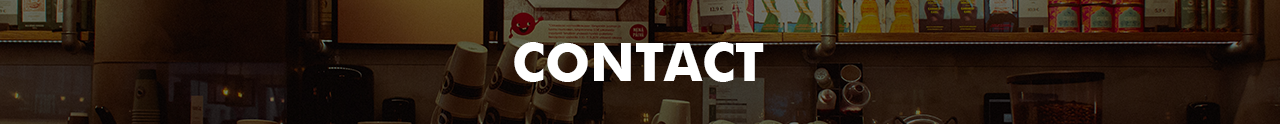
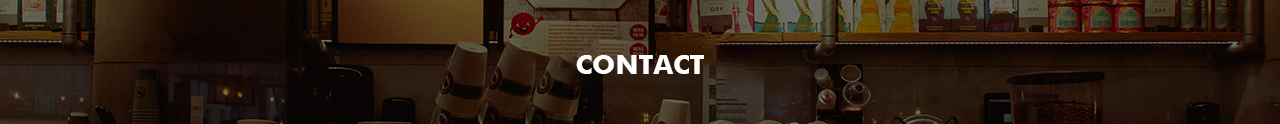
pembuatan fitur about

Changed region(s): [[0.375, 0.3145, 0.625, 0.7016]]

diff --git a/resources/views/about.blade.php b/resources/views/about.blade.php
@@ -1,109 +1,59 @@
 @extends('layouts.main')
 
 @section('content')
+    {{-- carousel about --}}
+    <div id="carouselExample" class="carousel slide">
+        <div class="carousel-inner" style="height: 120px;">
+            <div class="carousel-item active">
+                <img src="{{ Vite::asset('resources/images/bgabout.png') }}" class="d-block w-100" alt="...">
+            </div>
 
-        <div class="carousel-inner" style="height: 120px;>
-        <div class="carousel-item active">
-            <img src="{{ Vite::asset('resources/images/bgcontact.png') }}" class="d-block w-100" alt="...">
+            <div class="carousel-item">
+                <img src="{{ Vite::asset('resources/images/bgabout2.png') }}" class="d-block w-100" alt="...">
+            </div>
         </div>
+        <button class="carousel-control-prev" type="button" data-bs-target="#carouselExample" data-bs-slide="prev">
+            <span class="carousel-control-prev-icon" aria-hidden="true"></span>
+            <span class="visually-hidden">Previous</span>
+        </button>
+        <button class="carousel-control-next" type="button" data-bs-target="#carouselExample" data-bs-slide="next">
+            <span class="carousel-control-next-icon" aria-hidden="true"></span>
+            <span class="visually-hidden">Next</span>
+        </button>
     </div>
 
-    {{-- end navbar --}}
+    {{-- carousel about --}}
 
 
     {{-- START CONTENT --}}
     <div class="container-sm mt-5 mb-5 ">
-<form action="{{ route('suggestion.store') }}" method="POST">
-            @csrf
-            <div class="row justify-content-center">
-                <div class="p-5 bg-body-secondary rounded-3 border col-xl-6">
+        @csrf
+        <div class="row justify-content-center">
+            <div class="p-5 bg-body-secondary rounded-3 border col-xl-6">
+                <h1 style="text-align: center; font-weight: bold;">ITTS COFFEE</h1>
+                <hr>
+                <p style="text-align: justify">ITTS Coffee adalah tempat nongkrong yang asik dengan menyajikan minuman berkualitas tinggi dengan cita
+                    rasa yang unik dan menyenangkan. Pada kopi-nya sendiri kami menggunakan biji kopi pilihan yang diperoleh
+                    dari berbagai daerah penghasil kopi terbaik di dunia. Dengan kombinasi antara keahlian kopi yang
+                    mendalam, teknologi modern, dan dedikasi terhadap kepuasan pelanggan, kami berusaha untuk memberikan
+                    pengalaman kopi yang luar biasa kepada setiap pelanggan kami.
+                    <br>
+                    <br>
+                    Produk dan Layanan:
+                    <br>
+                    1. Kopi Segar: ITTS Coffee menawarkan berbagai macam jenis kopi segar yang dipanggang secara teratur
+                    untuk menjaga kualitasnya. Kami menyediakan biji kopi single origin dan campuran dengan berbagai tingkat
+                    kepekatan dan karakteristik rasa yang berbeda.
+                    <br>
+                    2. Minuman Khas: Selain kopi hitam, ITTS Coffee juga menyajikan beragam minuman khas seperti cappuccino, latte, espresso, mocaccino, dan banyak lagi. Kami menggunakan teknik penyajian yang terampil dan bahan-bahan berkualitas tinggi untuk menciptakan minuman kopi yang lezat.
+<br>
+3. Camilan dan Makanan Ringan: Kami juga menawarkan camilan dan makanan ringan yang cocok untuk menemani secangkir kopi. Mulai dari roti panggang, kue-kue, croissant, hingga sandwich, kami menyajikan pilihan yang beragam untuk memenuhi selera pelanggan.
 
-                    @if ($errors->any())
-                        @foreach ($errors->all() as $error)
-                            <div class="alert alert-danger alert-dismissible fade show">
-                                {{ $error }}
-                                <button type="button" class="btn-close" data-bs-dismiss="alert"
-                                    aria-label="Close"></button>
-                            </div>
-                        @endforeach
-                    @endif
-
-                    <div class="row">
-                        <div class="col-md-6">
-                            <!-- Empty column on the left -->
-                            <div class="card mb-4" style="height: 16vh; border: 1px solid #A52A2A;">
-
-                                <ul class="list-group ms-3 small mt-2">
-                                    {{-- <li class="list-group-item"> --}}
-                                    <i class="bi bi-envelope-fill fs-4"></i>
-                                    <li class="list-group"> <strong>Mail Address</strong></li>
-                                    <li class="list-group"> <strong>ITTSCoffee@gmail.com</strong></li>
-                                </ul>
-                            </div>
-                            <div class="card mb-4" style="height: 16vh; border: 1px solid #A52A2A;">
-                                <ul class="list-group ms-3 small mt-2">
-                                    {{-- <li class="list-group-item"> --}}
-                                    <i class="bi bi-telephone-fill fs-4"></i>
-                                    <li class="list-group "><strong>Phone Number</strong></li>
-                                    <li class="list-group"><strong>+62 812-3456-7890</strong></li>
-                                </ul>
-                            </div>
-                            <div class="card mb-4" style="height: 16vh; border: 1px solid #A52A2A;">
-                                <ul class="list-group ms-3 small mt-2">
-                                    {{-- <li class="list-group-item"> --}}
-                                    <i class="bi bi-geo-alt-fill fs-4"></i>
-                                    <li class="list-group"> <strong>Contact Address</strong></li>
-                                    <li class="list-group"> <strong>Jl. Ketintang No.156</strong> </li>
-                                </ul>
-                            </div>
-
-                        </div>
-                        <div class="col-md-6">
-                            <div class="mb-3">
-                                <h4>Kritik & Saran</h4>
-                            </div>
-                            <div class="mb-3" style="border: 1px solid #A52A2A; border-radius: 7px;">
-                                <input class="form-control" type="text" name="name" id="name"
-                                    value="" placeholder="Enter Name" style="height: 6vh;">
-                            </div>
-                            <div class="mb-3" style="border: 1px solid #A52A2A; border-radius: 7px;">
-                                <input class="form-control" type="text" name="email" id="email" value=""
-                                    placeholder="Enter Email" style="height: 6vh;">
-                            </div>
-                            <div class="mb-2" style="border: 1px solid #A52A2A; border-radius: 7px;">
-                                <textarea class="form-control resize-none" name="message" id="message" rows="6"
-                                    placeholder="Enter Your Suggestion"></textarea>
-                            </div>
-                            <div class="mb-3">
-                                <button type="submit"
-                                    class="btn btn-danger btn-lg d-flex align-items-center justify-content-center"
-                                    style="width: 60px; height: 30px;">
-                                    <span style="font-size: 14px;">Send</span>
-                                </button>
-                            </div>
-
-                        </div>
-                    </div>
-
-                    <div class="container">
-                        <div class="d-flex justify-content-center">
-                            <div class="embed-responsive embed-responsive-16by9">
-                                <iframe
-                                    src="https://www.google.com/maps/embed?pb=!1m18!1m12!1m3!1d3957.3903265077283!2d112.72662707335446!3d-7.309971792697908!2m3!1f0!2f0!3f0!3m2!1i1024!2i768!4f13.1!3m3!1m2!1s0x2dd7fbf613ba5dd5%3A0xe15ebdec39ca0293!2sITTS%20Coffee!5e0!3m2!1sen!2sid!4v1689754225696!5m2!1sen!2sid"
-                                    width="470" height="200" style="border:1;" allowfullscreen=""
-                                    loading="lazy" referrerpolicy="no-referrer-when-downgrade"></iframe>
-                            </div>
-                        </div>
-                    </div>
-
-
-
-
-                </div>
+                </p>
             </div>
-        </form>
+        </div>
+
     </div>
 
     {{-- END CONTENT --}}
-
 @endsection

diff --git a/resources/views/suggestion/create.blade.php b/resources/views/suggestion/create.blade.php
@@ -2,14 +2,26 @@
 
 @section('content')
 
-        <div class="carousel-inner" style="height: 120px;>
-        <div class="carousel-item active">
-            <img src="{{ Vite::asset('resources/images/bgcontact.png') }}" class="d-block w-100" alt="...">
-        </div>
-    </div>
 
     {{-- end navbar --}}
-
+<div id="carouselExample" class="carousel slide">
+  <div class="carousel-inner">
+    <div class="carousel-item active">
+      <img src="{{ Vite::asset('resources/images/bgcontact.png') }}" class="d-block w-100" alt="...">
+    </div>
+    <div class="carousel-item">
+      <img src="{{ Vite::asset('resources/images/bgcontact2.png') }}" class="d-block w-100" alt="...">
+    </div>
+  </div>
+  <button class="carousel-control-prev" type="button" data-bs-target="#carouselExample" data-bs-slide="prev">
+    <span class="carousel-control-prev-icon" aria-hidden="true"></span>
+    <span class="visually-hidden">Previous</span>
+  </button>
+  <button class="carousel-control-next" type="button" data-bs-target="#carouselExample" data-bs-slide="next">
+    <span class="carousel-control-next-icon" aria-hidden="true"></span>
+    <span class="visually-hidden">Next</span>
+  </button>
+</div>
 
     {{-- START CONTENT --}}
     <div class="container-sm mt-5 mb-5 ">

diff --git a/routes/web.php b/routes/web.php
@@ -1,5 +1,6 @@
 <?php
 
+use App\Http\Controllers\AboutController;
 use App\Http\Controllers\Auth\LoginController;
 use Illuminate\Support\Facades\Route;
 use App\Http\Controllers\ProductController;
@@ -26,14 +27,13 @@ Route::get('/', [LoginController::class, 'showLoginForm'])->middleware('guest');
 
 Auth::routes();
 
-    Route::get('about', function () {
-        return view('about');
-    })->name('about');
 
 // Grouping routes with 'auth' middleware
 Route::middleware(['auth'])->group(function () {
     // start route dari home
     Route::get('home', [HomeController::class, 'index'])->name('home');
+
+    Route::get('about', [AboutController::class, 'index'])->name('about');
 
     Route::get('contact', [ContactController::class, 'index'])->name('contact');
     // end route dari home

diff --git a/app/Http/Controllers/AboutController.php b/app/Http/Controllers/AboutController.php
@@ -1,0 +1,15 @@
+<?php
+
+namespace App\Http\Controllers;
+
+use Illuminate\Http\Request;
+
+class AboutController extends Controller
+{
+       function index()
+    {
+        $pageTitle = 'About';
+
+        return view('about', ['pageTitle' => $pageTitle]);
+    }
+}

diff --git a/resources/views/layouts/main.blade.php b/resources/views/layouts/main.blade.php
@@ -84,6 +84,8 @@
 
 @yield('content')
 
+
+
 <!-- Footer -->
 <footer class="footer navbar navbar-expand-lg" style="width: 100%; height: 140px; background-color: #A27B5C">
     <div class="">
